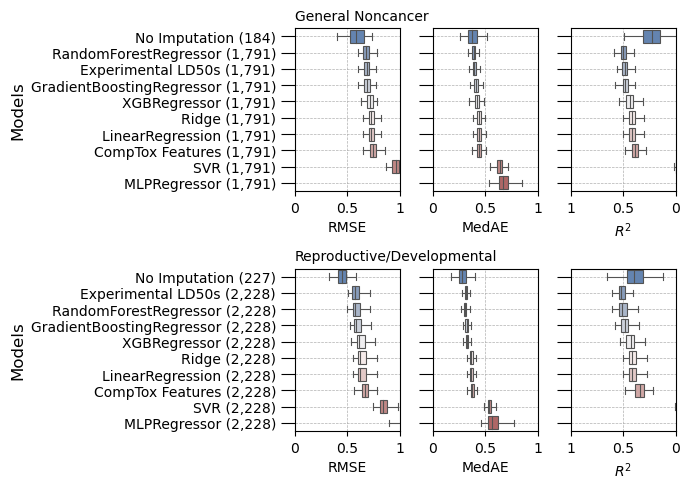
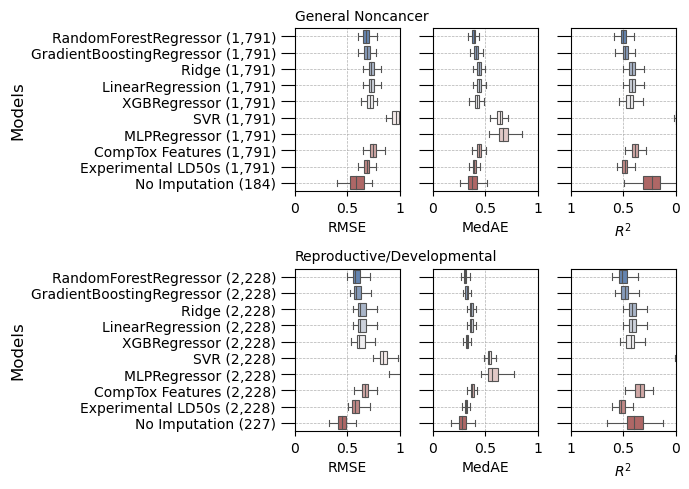
Refactor sensitivity analysis figure: No sorting

diff --git a/plotting/utilities.py b/plotting/utilities.py
@@ -253,6 +253,7 @@ def vertical_boxplots_subplot(
         sorting_level,
         evaluation_label_mapper,
         evaluation_level,
+        do_sort=True,  # New parameter to control sorting
         ascending=False,
         xlim=(),
         ylabel=None, 
@@ -264,39 +265,61 @@ def vertical_boxplots_subplot(
 
     Parameters
     ----------
-    workflow : object
-        The workflow object containing the model keys and corresponding 
-        history.
+    axs : matplotlib axes object
+        Axes on which to plot the boxplots.
+    df_wide : DataFrame
+        Wide-form DataFrame containing the data to plot.
+    sorting_level : str
+        The level in the DataFrame to sort by if sorting is enabled.
+    evaluation_label_mapper : dict
+        Dictionary mapping evaluation metrics to their labels.
+    evaluation_level : str
+        The level in the DataFrame corresponding to the evaluation metrics.
+    do_sort : bool, optional
+        Whether to sort the boxes according to the median of the first metric.
+        Default is True.
+    ascending : bool, optional
+        Whether to sort the values in ascending order. Default is False.
+    xlim : tuple, optional
+        Limits for the x-axis.
+    ylabel : str, optional
+        Label for the y-axis.
+    start : int, optional
+        Starting index for plotting axes. Default is 0.
+    palette : str, optional
+        Color palette for the boxplots.
 
     Returns
     -------
-    None : None
+    None
     '''
-    # Compute the sorting order based on the median of the first metric
-    first_metric_key = list(evaluation_label_mapper.keys())[0]
-    medians_first_metric = (
-        df_wide.xs(first_metric_key, axis=1, level=evaluation_level)
-        .median(axis=0)
-        .sort_values(ascending=ascending)
-    )
-    sorted_keys_first_metric = list(medians_first_metric.index)
+    if do_sort:
+        # Compute the sorting order based on the median of the first metric
+        first_metric_key = list(evaluation_label_mapper.keys())[0]
+        medians_first_metric = (
+            df_wide.xs(first_metric_key, axis=1, level=evaluation_level)
+            .median(axis=0)
+            .sort_values(ascending=ascending)
+        )
+        sorted_keys_first_metric = list(medians_first_metric.index)
+    else:
+        # Use the original order of keys if sorting is not required
+        sorted_keys_first_metric = df_wide.columns.get_level_values(sorting_level).unique()
 
-    reverse_metric = evaluation_label_mapper.get(
-        'r2_score', 'r2_score'
-    )
+    reverse_metric = evaluation_label_mapper.get('r2_score', 'r2_score')
     
-    for i, (k, metric) in enumerate(
-            evaluation_label_mapper.items(), start=start):
+    for i, (k, metric) in enumerate(evaluation_label_mapper.items(), start=start):
         
         df_long = df_wide.xs(k, axis=1, level=evaluation_level).melt()
         
-        # Use the sorting order from the first metric
-        df_long[sorting_level] = pd.Categorical(
-            df_long[sorting_level], 
-            categories=sorted_keys_first_metric, 
-            ordered=True
-            )
-        df_long = df_long.sort_values(by=sorting_level)
+        if do_sort:
+            # Use the sorting order from the first metric
+            df_long[sorting_level] = pd.Categorical(
+                df_long[sorting_level], 
+                categories=sorted_keys_first_metric, 
+                ordered=True
+                )
+            df_long = df_long.sort_values(by=sorting_level)
         
         _sns_boxplot_wrapper(
             axs[i], 
@@ -325,8 +348,7 @@ def vertical_boxplots_subplot(
         for i, ax in enumerate(axs.flatten()):
             ax.tick_params(axis='y', size=10)
             if i == 0:
-                ax.set_ylabel(ylabel, size=12) 
-   
+                ax.set_ylabel(ylabel, size=12)
 #endregion
 
 #region: _sns_boxplot_wrapper

diff --git a/plotting/sensitivity_analysis.py b/plotting/sensitivity_analysis.py
@@ -89,6 +89,7 @@ def sensitivity_analysis_boxplots(
             'model_name',
             plot_settings.label_for_metric,
             'metric',
+            do_sort=False,
             ascending=True,
             xlim=xlim,
             ylabel='Models', 
